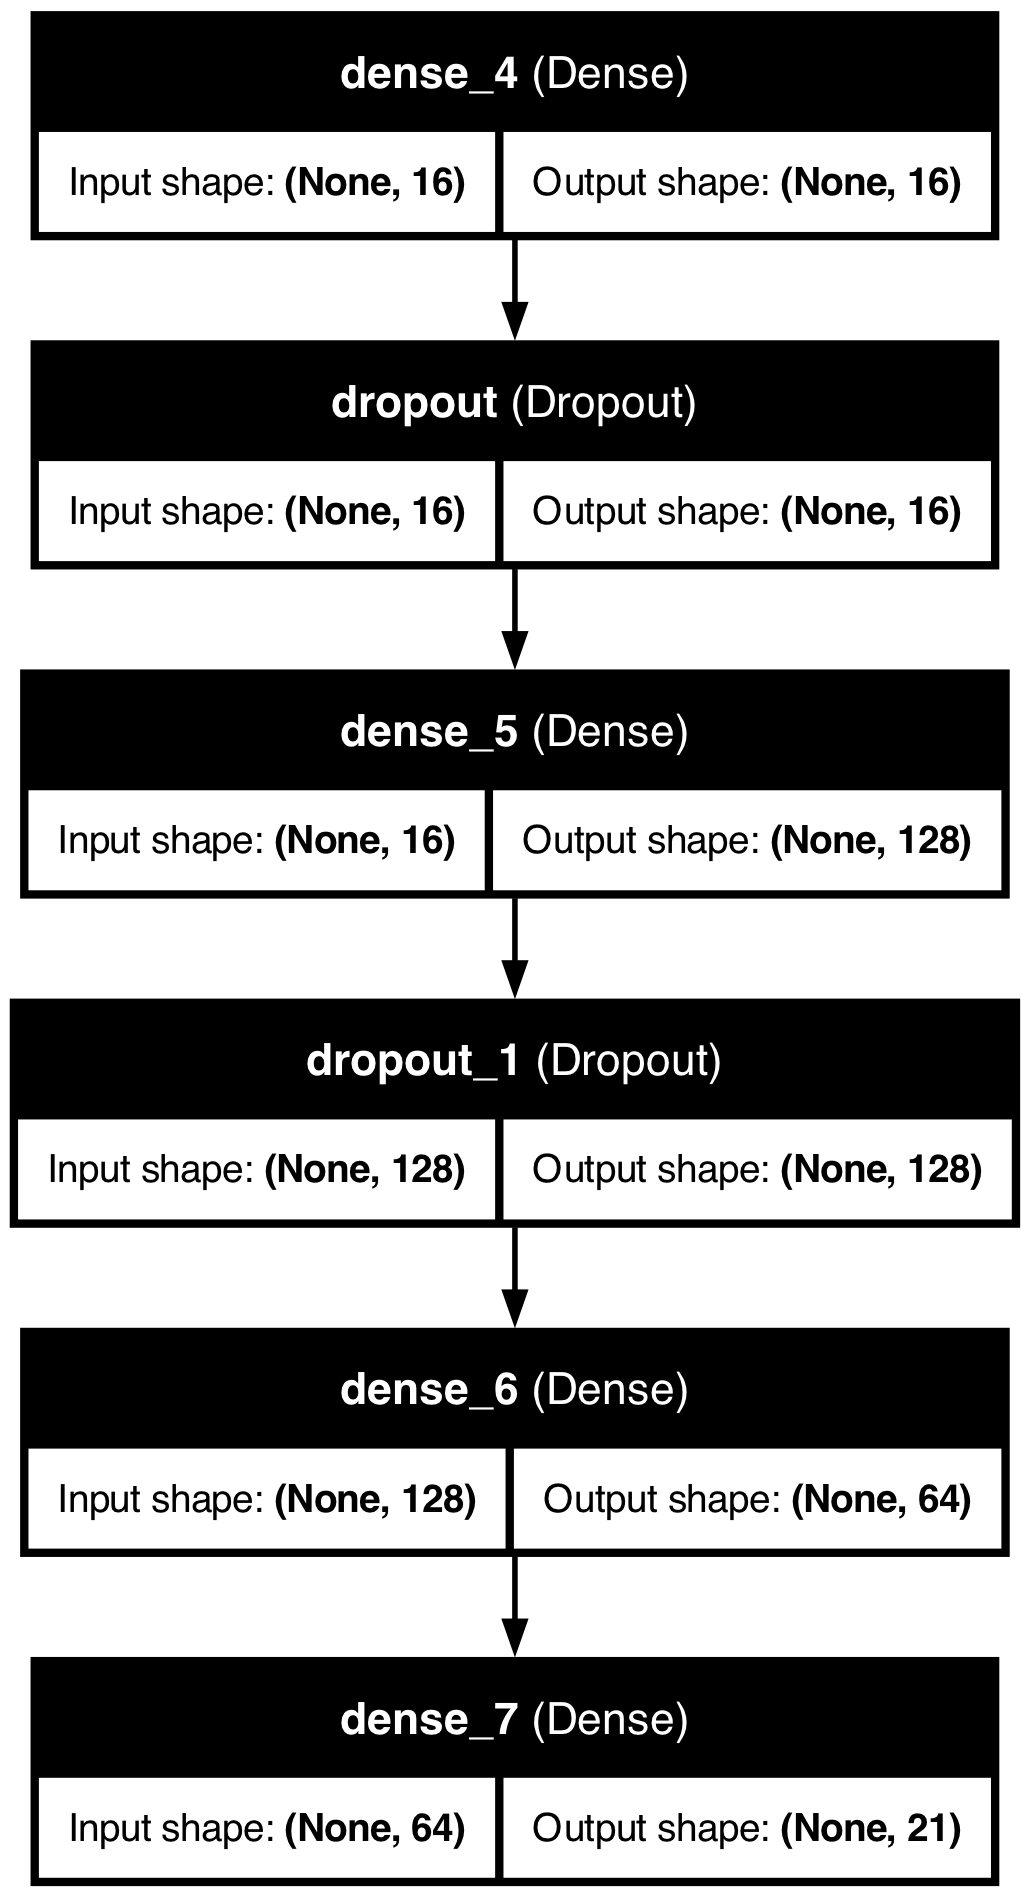
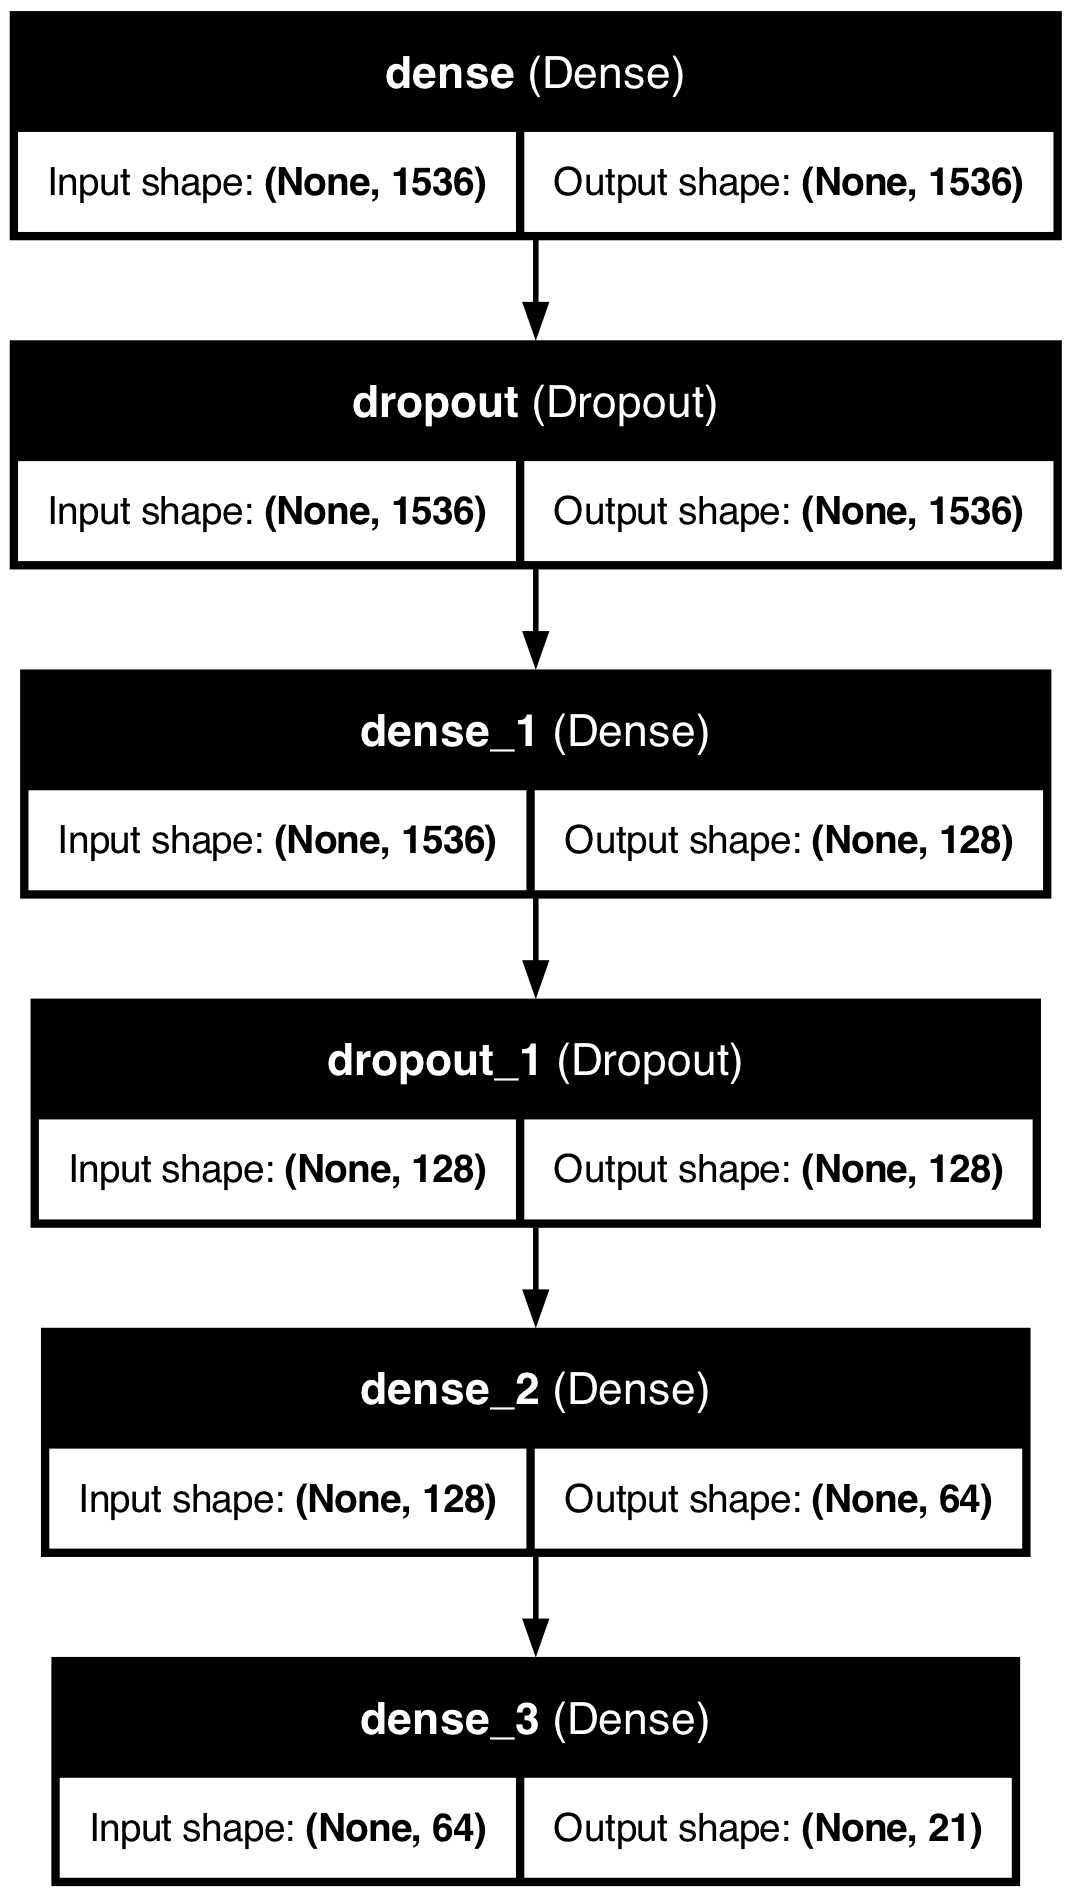
auto save chart figure file in nm model

diff --git a/model/ClassifyVerses-n.py b/model/ClassifyVerses-n.py
@@ -25,7 +25,7 @@ modelfile = f"{ROOT_DIR}/data/nm_classifier.h5"
 X = []
 y = []
 
-DIM = 1536  # it is set by setDIM() function 
+DIM = 1536  # it is reset by setDIM() function 
 EPOCHs = 20
 BATCH_SIZE = 32
 
@@ -104,14 +104,22 @@ def build_model(X, y, epochs, batch_size):
   return model, history, X_test, y_test
 
 #print(f"history {history.history}")
-def draw_plot(history, epochs, DIM, method):
+def draw_plot(history, epochs, DIM, method, dir=None):
   plt.figure(figsize=(12,5))
   plt.plot(epochs, history.history["accuracy"], marker="o", linestyle="-", linewidth=1, label="training")
   plt.plot(epochs, history.history["val_accuracy"], marker="o", linestyle="-", linewidth=1, label="validation")
   plt.legend(loc="upper left")
   plt.xlabel("epochs")
   plt.ylabel("accuracy")
-  plt.title(f"accuracy: dimention {DIM} reduced by {method}")
+  if method != "":
+    plt.title(f"accuracy: dimention {DIM} reduced by {method}")
+  else:
+    plt.title(f"accuracy: dimention {DIM}")
+  if dir is not None:
+    figurefile = f"{dir}/Figure_Accuracy_{method}_{DIM}.png"
+    plt.savefig(figurefile, dpi=300) 
+    print(f"saved accuracy chart to {figurefile}")
+
 
   plt.figure(figsize=(12,5))
   plt.plot(epochs, history.history["loss"], marker="o", linestyle="-", linewidth=1, label="training")
@@ -120,7 +128,14 @@ def draw_plot(history, epochs, DIM, method):
   plt.legend(loc="upper left")
   plt.xlabel("epochs")
   plt.ylabel("loss")
-  plt.title(f"loss: dimention {DIM} reduced by {method}")
+  if method != "": 
+    plt.title(f"loss: dimention {DIM} reduced by")
+  else:
+    plt.title(f"loss: dimention {DIM}")
+  if dir is not None:
+    figurefile = f"{dir}/Figure_Loss_{method}_{DIM}.png"
+    plt.savefig(figurefile, dpi=300) 
+    print(f"saved loss chart to {figurefile}")
   plt.show()
   return 
 
@@ -138,8 +153,8 @@ def save_model(model):
   return
 
 #### main steps starts here 
-dim = 16
-reduce_method = 'AutoEncoder'
+dim = 1536
+reduce_method = ''
 X, y = read_data(datafile)
 if dim < X.shape[1]:
   X, y = reduce_dimention(reduce_method, dim, X,y) # it is optional to disable this step to reduce dimention
@@ -148,12 +163,12 @@ DIM = setDIM(X)
 model, history, X_test, y_test = build_model(X,y, EPOCHs, BATCH_SIZE)
 model.summary()
 # generate  the model chart
-plot_model(model, to_file="model_nm_classifier.png", show_shapes=True, show_layer_names=True)
+plot_model(model, to_file=f"{ROOT_DIR}/model/figure/model_nm_classifier.png", show_shapes=True, show_layer_names=True)
 # generate the auto encoder model chart
 if embedding.model is not None:
-  plot_model(embedding.model, to_file="model_nm_autoencoder.png", show_shapes=False, show_layer_names=True)
-embedding.model.summary()
+  plot_model(embedding.model, to_file=f"{ROOT_DIR}/model/figure/model_nm_autoencoder.png", show_shapes=True, show_layer_names=True)
+  embedding.model.summary()
 epochs = range(1, len(history.history["loss"]) + 1)
-draw_plot(history, epochs, DIM, reduce_method)
+draw_plot(history, epochs, DIM, reduce_method, dir=f"{ROOT_DIR}/model/figure")
 evaluate_model(model, X_test, y_test)
-#save_model(model)
+save_model(model)

diff --git a/manage.py b/manage.py
@@ -1,0 +1,22 @@
+#!/usr/bin/env python
+"""Django's command-line utility for administrative tasks."""
+import os
+import sys
+
+
+def main():
+    """Run administrative tasks."""
+    os.environ.setdefault("DJANGO_SETTINGS_MODULE", "llm.settings")
+    try:
+        from django.core.management import execute_from_command_line
+    except ImportError as exc:
+        raise ImportError(
+            "Couldn't import Django. Are you sure it's installed and "
+            "available on your PYTHONPATH environment variable? Did you "
+            "forget to activate a virtual environment?"
+        ) from exc
+    execute_from_command_line(sys.argv)
+
+
+if __name__ == "__main__":
+    main()

diff --git a/model/README.md b/model/README.md
@@ -1,5 +1,5 @@
 # Classify Verses 
-Designed a Neural network to categorize each bible verses to 21 topics.
+Designed a Neural network to categorize each bible verses to 21 topics (categories/labels).
 
 In order to classify each verses, each verses is embedded by 1536-D vector by OpenAI embedding model.
 
